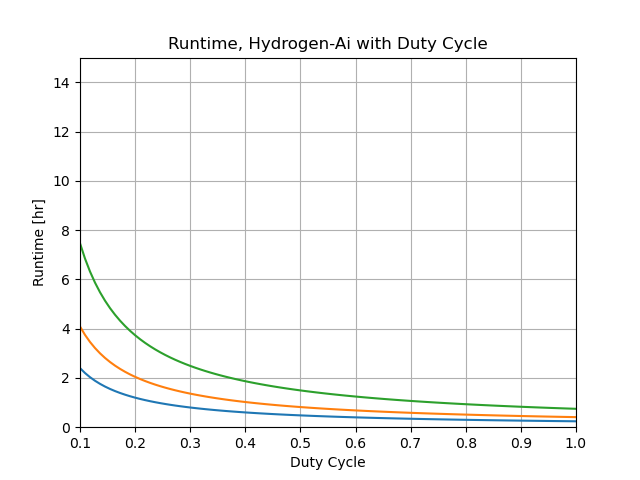
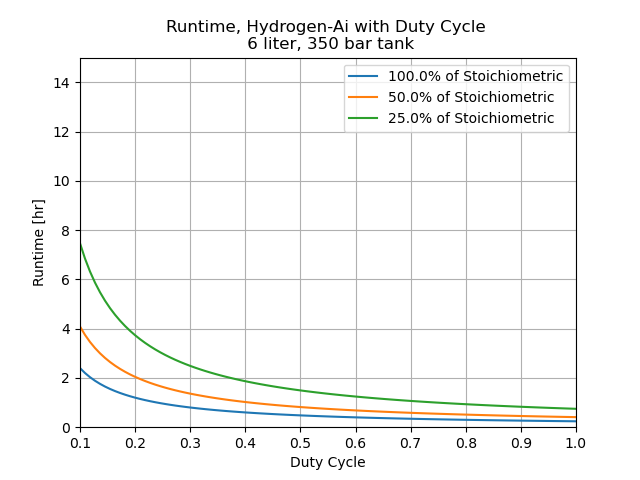
Updated Runtime Titles

Changed region(s): [[0.25, 0.0312, 0.875, 0.2812]]

diff --git a/hydrogen_air_analysis.py b/hydrogen_air_analysis.py
@@ -491,15 +491,16 @@ for e in excesses:
     tank_size = tank_pressure*tank_vol/1.01325 #[liters at stp]
     m_tot_H2 = H2.d(T=t1, p=p1)*tank_size/1000
     runtime = (m_tot_H2/m_dot_H2)/60
-    plt.plot(duty_cycle, runtime/60, label=f'{e*100}% of Stoichiometric, 6 liter, 350 bar tank')
+    plt.plot(duty_cycle, runtime/60, label=f'{e*100}% of Stoichiometric')
     c+=1
     
 plt.xlabel('Duty Cycle')
 plt.ylabel('Runtime [hr]')
-plt.title(f'Runtime, Hydrogen-Ai with Duty Cycle')
+plt.title(f'Runtime, Hydrogen-Ai with Duty Cycle \n 6 liter, 350 bar tank')
 plt.grid()
 plt.ylim(0,15)
 plt.xlim(0.1,1)
+plt.legend()
 plt.savefig(f'Hydrogen-Air_graphs/runtime_duty_cycle.png')
 # %%
 fig6 = plt.figure()
@@ -522,13 +523,14 @@ for e in excesses:
     rps = avg_rpm/60
     m_dot_H2 = kg_H2*rps
     runtime = (m_tot_H2/m_dot_H2)/60
-    plt.plot(avg_rpm, runtime/60)
+    plt.plot(avg_rpm, runtime/60, label=f'{e*100}% of Stoichiometric')
     c+=1
     
 plt.xlabel('Average RPM')
 plt.ylabel('Runtime [hr]')
 plt.grid()
-plt.title(f'Runtime, Hydrogen-Air at given RPM')
+plt.legend()
+plt.title(f'Runtime, Hydrogen-Air at given RPM \n 6 liter, 350 bar tank')
 plt.ylim(0,8)
 plt.xlim(1000,6000)
 plt.savefig(f'Hydrogen-Air_graphs/runtime_rpm.png')

diff --git a/isooctane_analysis.py b/isooctane_analysis.py
@@ -409,7 +409,7 @@ for e in excesses:
 
 plt.xlabel('Duty Cycle')
 plt.ylabel('Runtime [hr]')
-plt.title(f'Runtime, Iso-Octane Air with Duty Cycle')
+plt.title(f'Runtime, Iso-Octane Air with Duty Cycle \n 1 Liter Tank')
 plt.grid()
 plt.ylim(0,15)
 plt.xlim(0.1,1)
@@ -444,7 +444,7 @@ for e in excesses:
 plt.plot(avg_rpm, runtime)
 plt.xlabel('Average RPM')
 plt.ylabel('Runtime [min]')
-plt.title(f'Runtime, Iso-Octane Air at Given RPM')
+plt.title(f'Runtime, Iso-Octane Air at Given RPM \n 1 Liter Tank')
 plt.grid()
 plt.ylim(0,8)
 plt.xlim(1000,6000)
